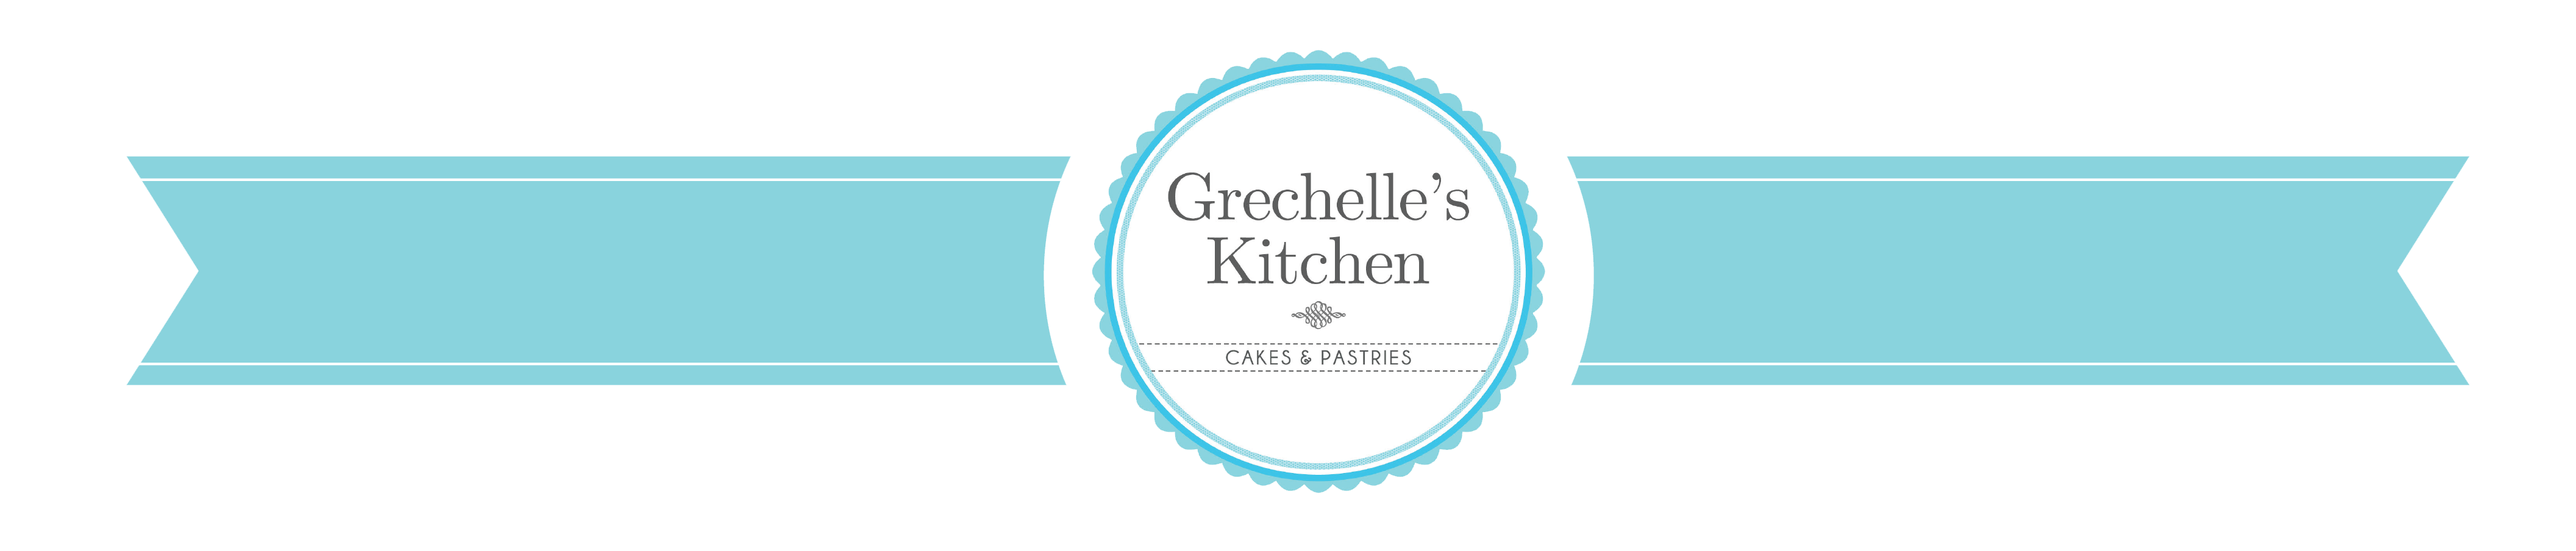
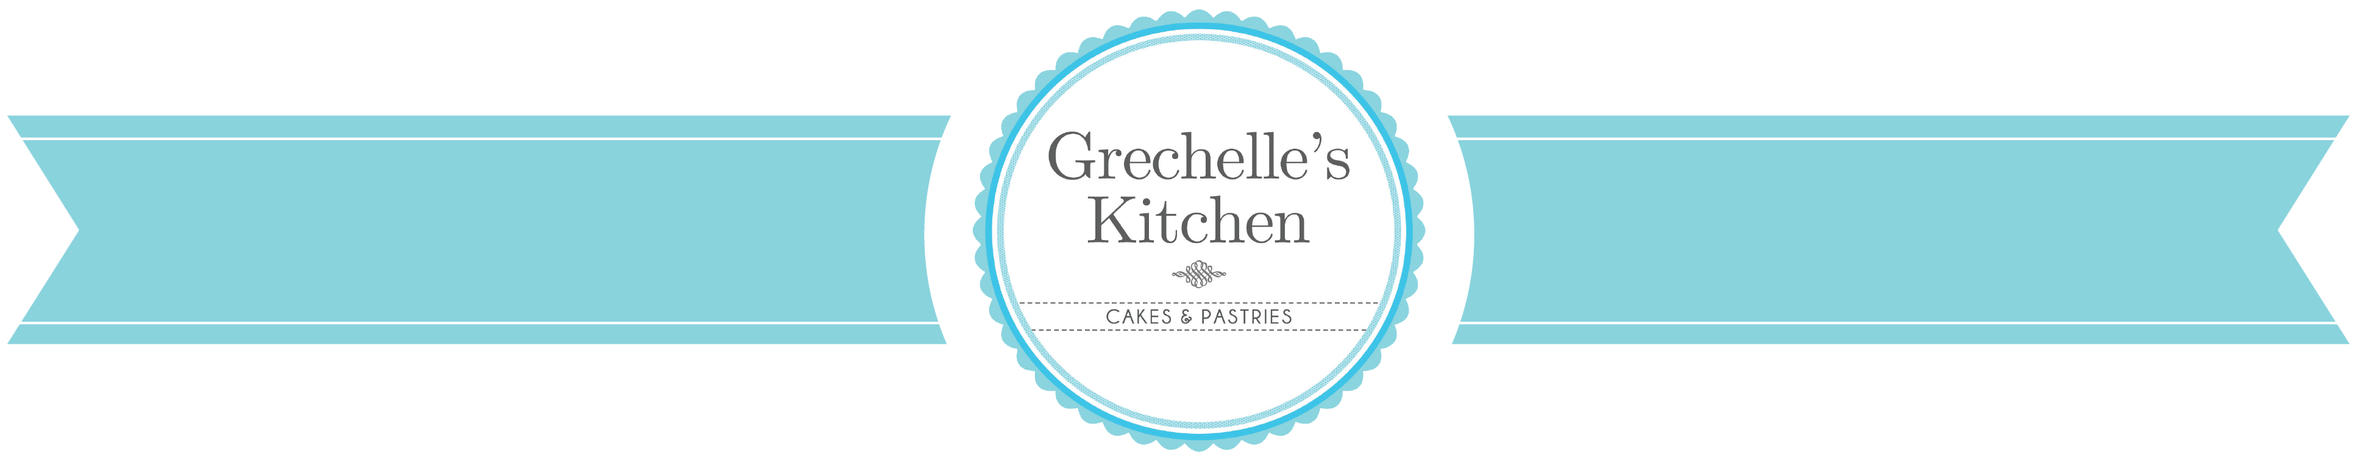
edited header

Changed region(s): [[0.0, 0.0, 1.0, 1.0]]

diff --git a/app/assets/stylesheets/application.css.scss b/app/assets/stylesheets/application.css.scss
@@ -17,20 +17,30 @@
 @font-face {
 	font-family: 'ChampagneLimousines';
 	src: url('/assets/ChampagneLimousines.woff') format('woff');
-
 	font-style: normal;
 	font-style: normal;
 }
 
+
 .headerimg {
-	height: 40vh;
-	width: 100vw;
+	height: 35vh;
+	width: 90vw;
+	/*height: auto;
+	width: auto;*/
 	background-image: url(/assets/header.png);
 	background-size: cover;
 	background-position: center;
-	margin-right: 1vw;
-	z-index: 2;
+	/* margin-right: 5vw; */
+	margin-right: auto;
+	margin-left: auto;
+	/* z-index: 1; */
 	position: relative;
+}
+
+@media (max-width:980px) {
+		.headerimg {
+		width: 50vw;
+	}
 }
 
 .headerlinks {
